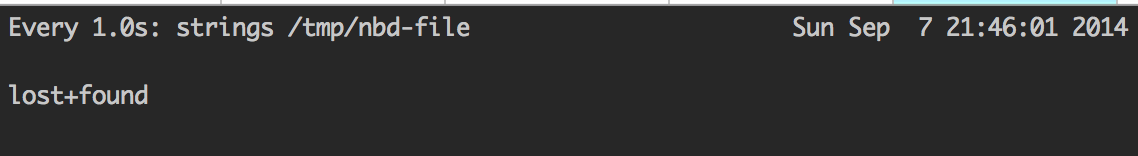
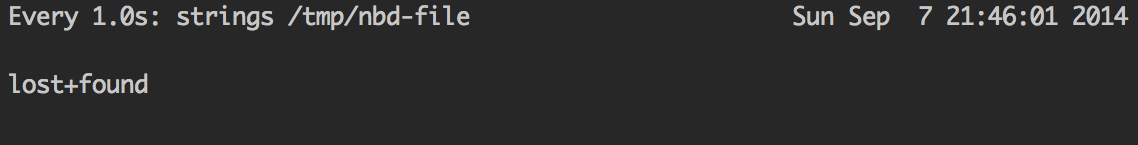
Fix validation errors.

Changed region(s): [[0.0, 0.0, 1.0, 0.2759], [0.0, 0.4966, 0.1538, 0.6897]]

diff --git a/css/base.css b/css/base.css
@@ -121,6 +121,7 @@ img { margin: 3px;}
       border-radius: 3px;
       padding: 2px 3px; }
   .content img {
+    align: center;
     padding: 3px;
     border: 1px solid #eeeeee;
     max-width: 100%; }

diff --git a/validate.rb b/validate.rb
@@ -18,6 +18,11 @@ failed = 0
 passed = 0
 skipped = 0
 
+IGNORED_FILES = [
+  '_site/data/2014-07-28/blueimp-gallery.css'
+  '_site/data/2014-12-15/Blueprint-VerticalTimeline/css/component.css'
+]
+
 class XMLValidator < W3CValidators::Validator
   def validate_file(file)
     if file.respond_to? :read

diff --git a/_posts/2014-09-08-nbd-android.md b/_posts/2014-09-08-nbd-android.md
@@ -327,9 +327,7 @@ commands.
 watch -n 1 strings /tmp/nbd-file
 {% endhighlight %}
 
-<center>
-  <img src="/data/2014-09-08/android-nbd-init.png" width="70%"/>
-</center>
+<img src="/data/2014-09-08/android-nbd-init.png"/>
 
 ## Connecting the nbd client on the Android device to the nbd server.
 In Android, make a new nbd device and attach to the nbd export
@@ -357,9 +355,7 @@ android> echo "12345678" > /data/nbdroid/nbd-mount/new-file.txt
 These changes can be see in the exported file on the server
 with the `watch` command.
 
-<center>
-  <img src="/data/2014-09-08/android-nbd-changes.png" width="70%"/>
-</center>
+<img src="/data/2014-09-08/android-nbd-changes.png" />
 
 ## Unmounting and detaching nbd
 Use the following commands to cleanly disconnect the nbd client.
